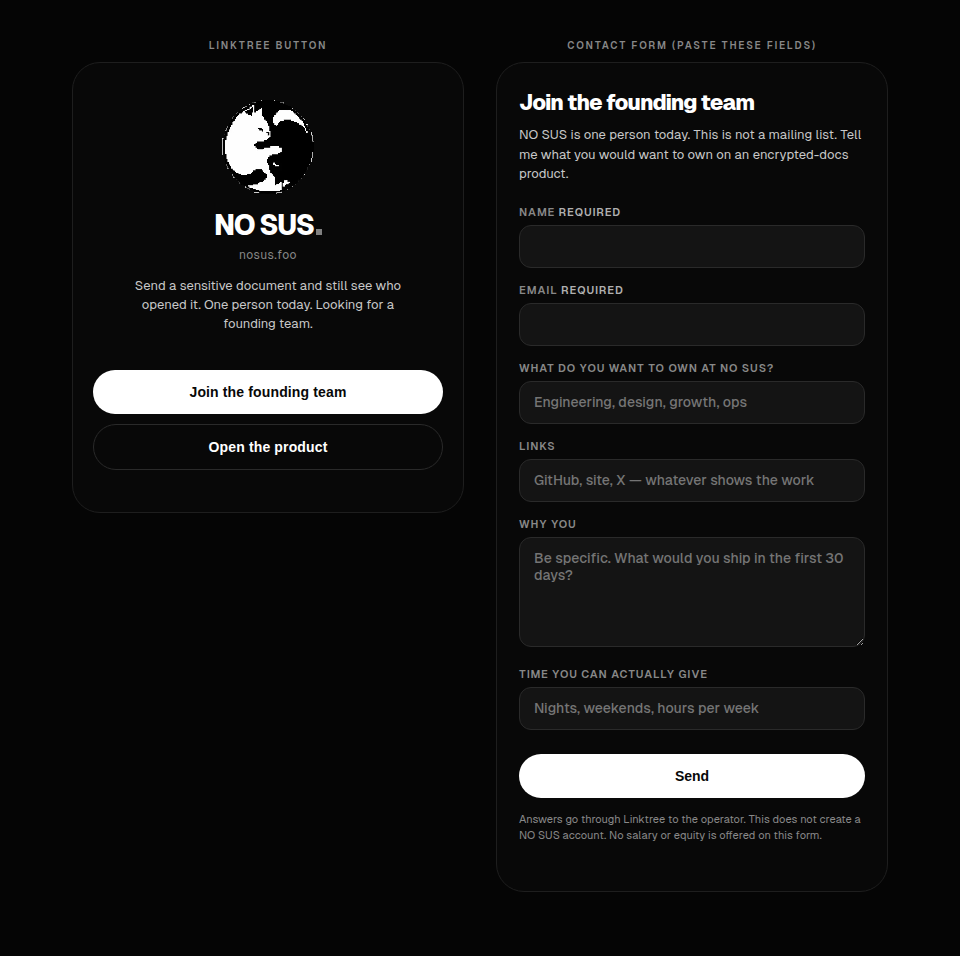
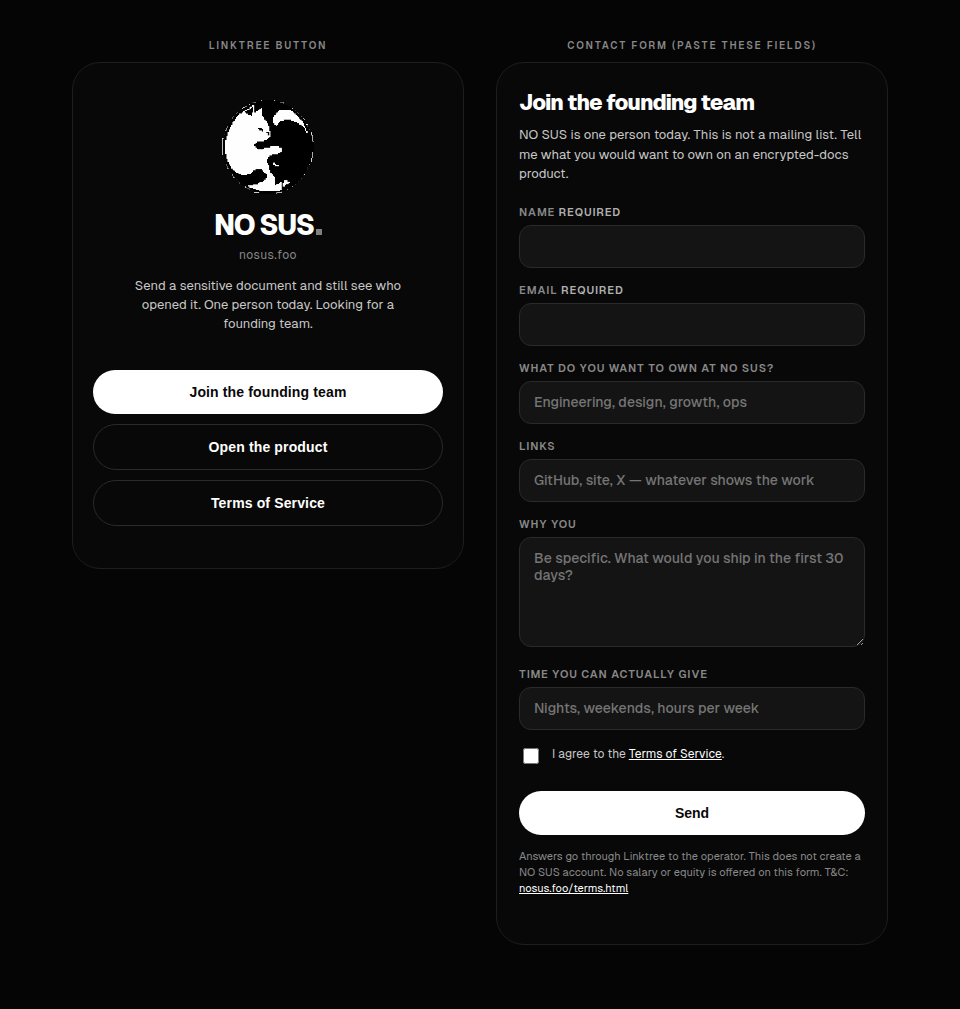
feat(ads): point the Linktree founding form at the live Terms of Service
Custom T&Cs, the form checkbox, and a profile button now use https://nosus.foo/terms.html instead of the privacy page.

diff --git a/ads/brand/public/linktree-preview.html b/ads/brand/public/linktree-preview.html
@@ -164,6 +164,27 @@
       line-height: 1.45;
       color: var(--mute);
     }
+    .note a { color: #fff; }
+    .terms {
+      display: flex;
+      align-items: flex-start;
+      gap: 10px;
+      margin: 4px 0 16px;
+      font-size: 12px;
+      font-weight: 400;
+      letter-spacing: 0;
+      text-transform: none;
+      line-height: 1.45;
+      color: #c8c8c8;
+    }
+    .terms input {
+      width: 16px;
+      height: 16px;
+      margin-top: 2px;
+      flex: none;
+      accent-color: #fff;
+    }
+    .terms a { color: #fff; }
   </style>
 </head>
 <body>
@@ -180,6 +201,7 @@
         <div class="links">
           <button class="link-btn" type="button">Join the founding team</button>
           <button class="link-btn ghost" type="button">Open the product</button>
+          <button class="link-btn ghost" type="button">Terms of Service</button>
         </div>
       </div>
     </div>
@@ -214,8 +236,12 @@
             <label for="time">Time you can actually give</label>
             <input id="time" name="time" placeholder="Nights, weekends, hours per week">
           </div>
+          <label class="terms">
+            <input id="terms" name="terms" type="checkbox" required>
+            <span>I agree to the <a href="https://nosus.foo/terms.html">Terms of Service</a>.</span>
+          </label>
           <button class="submit" type="submit">Send</button>
-          <p class="note">Answers go through Linktree to the operator. This does not create a NO SUS account. No salary or equity is offered on this form.</p>
+          <p class="note">Answers go through Linktree to the operator. This does not create a NO SUS account. No salary or equity is offered on this form. T&amp;C: <a href="https://nosus.foo/terms.html">nosus.foo/terms.html</a></p>
         </form>
       </div>
     </div>

diff --git a/ads/brand/linktree-founding-team.md b/ads/brand/linktree-founding-team.md
@@ -18,11 +18,14 @@ size, salary, or equity. The form does not create a NO SUS account.
 8. Thumbnail: `out/nosus_linktree_founding_thumb.png`
 9. Put this link at the top. Prioritize it if you use that toggle.
 10. Audience Settings → turn on **Get email notifications**.
+11. **Custom T&Cs** (Pro/Premium): on, URL `https://nosus.foo/terms.html`.
+    On a free plan, keep the Terms line in the intro below so the URL is still visible.
 
 Responses live under **Audience → Manage**.
 
-Pro/Premium: Custom T&Cs can point at `https://nosus.foo/privacy.html`.
-Say in the intro that answers go through Linktree, not the app.
+Answers go through Linktree, not the app. The T&C page is the shipped
+Terms of Service (`web/terms.html`, served at that URL by the landing
+deploy). Do not point Custom T&Cs at privacy.html.
 
 ## Profile (optional)
 
@@ -38,6 +41,10 @@ Second link (ghost/normal URL, not the form):
 - Title: `Open the product`
 - URL: `https://nosus.foo`
 
+Third link:
+- Title: `Terms of Service`
+- URL: `https://nosus.foo/terms.html`
+
 ## Form copy
 
 **Link title**
@@ -47,7 +54,7 @@ Join the founding team
 
 **Intro**
 ```
-NO SUS is one person today. This is not a mailing list. Tell me what you would want to own on an encrypted-docs product.
+NO SUS is one person today. This is not a mailing list. Tell me what you would want to own on an encrypted-docs product. Terms: https://nosus.foo/terms.html
 ```
 
 **Fields**
@@ -66,6 +73,11 @@ Placeholder for “own”: `Engineering, design, growth, ops, or a specific hole
 **Thank-you**
 ```
 Got it. I'll read it. If it's a fit I'll email you.
+```
+
+**Custom T&Cs URL**
+```
+https://nosus.foo/terms.html
 ```
 
 **Submit button** (if editable): `Send`
